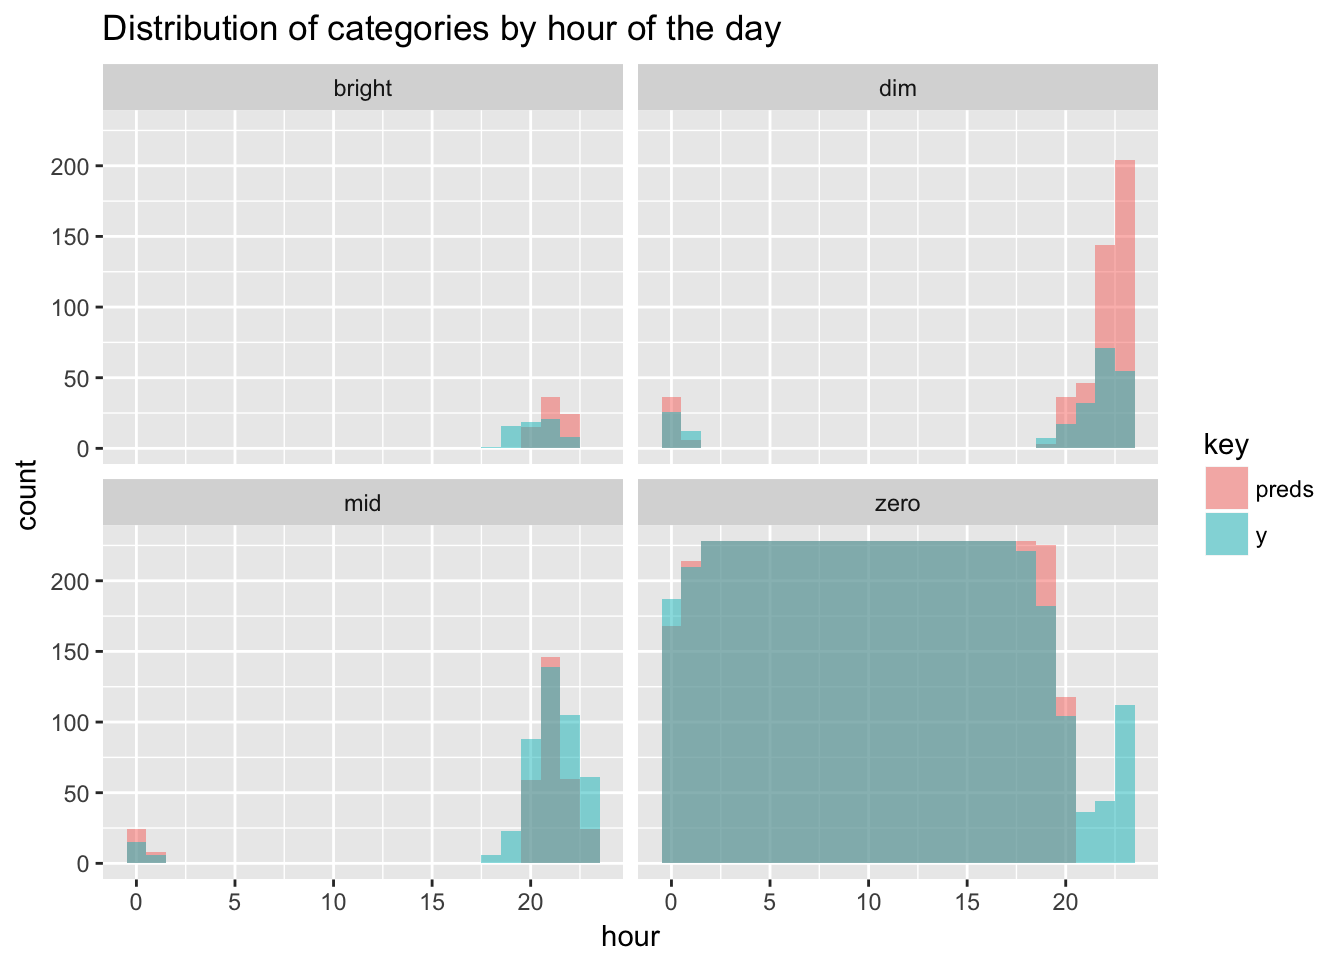
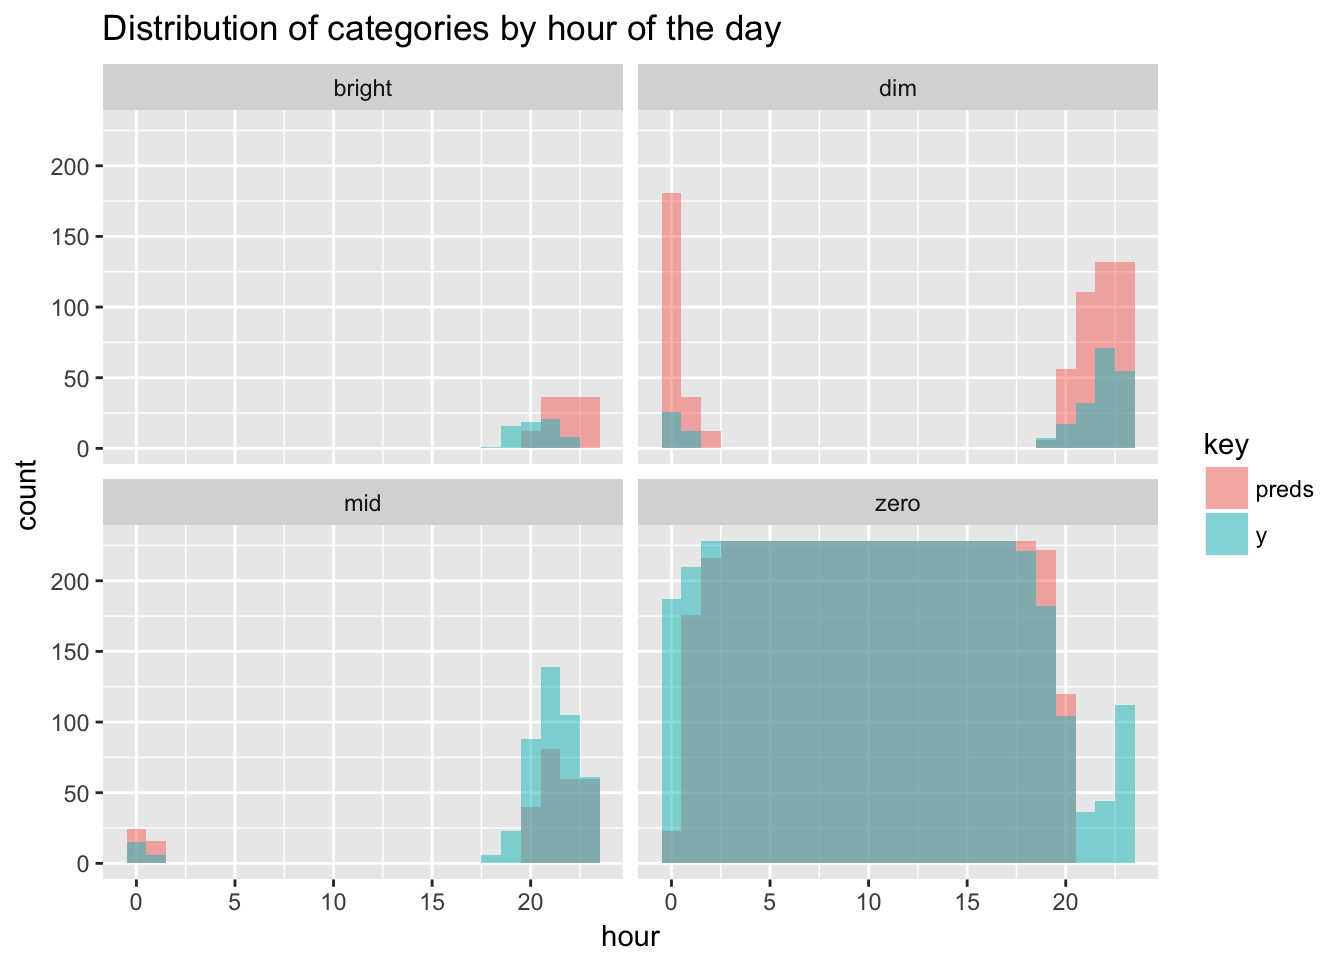
typo fix 2

diff --git a/blog/self-learning-hue-lights/index.html b/blog/self-learning-hue-lights/index.html
@@ -44,10 +44,10 @@
 
 
     
-    <link rel="stylesheet" href="../../css/reset.css?t=1533586802">
-    <link rel="stylesheet" href="../../css/main.css?t=1533586802">
+    <link rel="stylesheet" href="../../css/reset.css?t=1533588859">
+    <link rel="stylesheet" href="../../css/main.css?t=1533588859">
     
-        <link rel="stylesheet" href="../../css/override.css?t=1533586802">
+        <link rel="stylesheet" href="../../css/override.css?t=1533588859">
     
 
 
@@ -277,10 +277,10 @@ gbmFit &lt;- train(y ~ ., data = training,
 table(preds, testing$y)</code></pre>
 <pre><code>##         
 ## preds     dim  mid bright zero
-##   dim      83  171     18  203
-##   mid      64  135     21  101
-##   bright   19   49      0    7
-##   zero     54   88     26 4433</code></pre>
+##   dim      90  198     34  344
+##   mid      58  106      6  111
+##   bright   37   55      0   28
+##   zero     35   84     25 4261</code></pre>
 <p>Most mistakes are made trying to classify bright and mid. The model gets 0 bright values right and only manages to do so correctly 14% of the time for mid. But when do errors happen? To dig a little deeper let’s look at the previous histogram of categories by hour again for the test set, but now with the predictions overlaid on top.</p>
 <p><img src="../../blog/2017/2017-05-14-hue_files/figure-html/unnamed-chunk-11-1.png" width="672" /></p>
 <p>Bright values were always going be hard to guess, but the model at least comes close in terms of hours, but off on the exact days. The majority of misclassification comes from overzealously predicting dim in the evening and around midnight, when it should really be either mid or zero. That looks like a workable scenario for me.</p>

diff --git a/blog/parallelizing-r-code-on-kubernetes/index.html b/blog/parallelizing-r-code-on-kubernetes/index.html
@@ -44,10 +44,10 @@
 
 
     
-    <link rel="stylesheet" href="../../css/reset.css?t=1533586802">
-    <link rel="stylesheet" href="../../css/main.css?t=1533586802">
+    <link rel="stylesheet" href="../../css/reset.css?t=1533588859">
+    <link rel="stylesheet" href="../../css/main.css?t=1533588859">
     
-        <link rel="stylesheet" href="../../css/override.css?t=1533586802">
+        <link rel="stylesheet" href="../../css/override.css?t=1533588859">
     
 
 
@@ -170,7 +170,7 @@ pre code, pre, code {
 <div id="single-job-with-static-parameters" class="section level1">
 <h1>Single job with static parameters</h1>
 <p>The simplest use case of parallelization is running the same script over and over again, but in parallel instead of in a sequential order. A classic example is simulation, i.e. the random generation of numbers given a fixed set of parameters.</p>
-<p>I am taking an example from <a href="https://docs.microsoft.com/en-us/azure/batch/tutorial-r-doazureparallel#run-a-parallel-simulation">Azure’s tutorial on running R code in parallel</a>, simulating stock prices after a a year (365 days) given a fixed value for standard deviation and average stock price movement per day.</p>
+<p>I am taking an example from <a href="https://docs.microsoft.com/en-us/azure/batch/tutorial-r-doazureparallel#run-a-parallel-simulation">Azure’s tutorial on running R code in parallel</a>, simulating stock prices after a year (365 days) given a fixed value for standard deviation and average stock price movement per day.</p>
 <pre class="r"><code>mean_change = 1.001 
 volatility = 0.01 
 opening_price = 100 

diff --git a/blog/a-tidy-text-analysis-of-rick-and-morty/index.html b/blog/a-tidy-text-analysis-of-rick-and-morty/index.html
@@ -44,10 +44,10 @@
 
 
     
-    <link rel="stylesheet" href="../../css/reset.css?t=1533586802">
-    <link rel="stylesheet" href="../../css/main.css?t=1533586802">
+    <link rel="stylesheet" href="../../css/reset.css?t=1533588859">
+    <link rel="stylesheet" href="../../css/main.css?t=1533588859">
     
-        <link rel="stylesheet" href="../../css/override.css?t=1533586802">
+        <link rel="stylesheet" href="../../css/override.css?t=1533588859">
     
 
 
@@ -231,9 +231,9 @@ bigram_graph &lt;- df %&gt;%
 <pre><code>## Warning in graph_from_data_frame(.): In `d&#39; `NA&#39; elements were replaced
 ## with string &quot;NA&quot;</code></pre>
 <pre class="r"><code>print(bigram_graph)</code></pre>
-<pre><code>## IGRAPH 000ce0a DN-- 311 283 -- 
+<pre><code>## IGRAPH 9ac33f3 DN-- 311 283 -- 
 ## + attr: name (v/c), season (e/c), n (e/n)
-## + edges from 000ce0a (vertex names):
+## + edges from 9ac33f3 (vertex names):
 ## [1] NA      -&gt;NA      NA      -&gt;NA      NA      -&gt;NA      tiny    -&gt;rick   
 ## [5] yeah    -&gt;yeah   
 ##  [ reached getOption(&quot;max.print&quot;) -- omitted 21 entries ]

diff --git a/blog/an-animated-neural-net-implementation/index.html b/blog/an-animated-neural-net-implementation/index.html
@@ -44,10 +44,10 @@
 
 
     
-    <link rel="stylesheet" href="../../css/reset.css?t=1533586802">
-    <link rel="stylesheet" href="../../css/main.css?t=1533586802">
+    <link rel="stylesheet" href="../../css/reset.css?t=1533588859">
+    <link rel="stylesheet" href="../../css/main.css?t=1533588859">
     
-        <link rel="stylesheet" href="../../css/override.css?t=1533586802">
+        <link rel="stylesheet" href="../../css/override.css?t=1533588859">
     
 
 

diff --git a/blog/analyzing-my-spotify-listening-history/index.html b/blog/analyzing-my-spotify-listening-history/index.html
@@ -44,10 +44,10 @@
 
 
     
-    <link rel="stylesheet" href="../../css/reset.css?t=1533586802">
-    <link rel="stylesheet" href="../../css/main.css?t=1533586802">
+    <link rel="stylesheet" href="../../css/reset.css?t=1533588859">
+    <link rel="stylesheet" href="../../css/main.css?t=1533588859">
     
-        <link rel="stylesheet" href="../../css/override.css?t=1533586802">
+        <link rel="stylesheet" href="../../css/override.css?t=1533588859">
     
 
 

diff --git a/blog/creating-a-spotify-playlist-using-luigi/index.html b/blog/creating-a-spotify-playlist-using-luigi/index.html
@@ -44,10 +44,10 @@
 
 
     
-    <link rel="stylesheet" href="../../css/reset.css?t=1533586802">
-    <link rel="stylesheet" href="../../css/main.css?t=1533586802">
+    <link rel="stylesheet" href="../../css/reset.css?t=1533588859">
+    <link rel="stylesheet" href="../../css/main.css?t=1533588859">
     
-        <link rel="stylesheet" href="../../css/override.css?t=1533586802">
+        <link rel="stylesheet" href="../../css/override.css?t=1533588859">
     
 
 

diff --git a/blog/dockerized-shiny-app-development/index.html b/blog/dockerized-shiny-app-development/index.html
@@ -44,10 +44,10 @@
 
 
     
-    <link rel="stylesheet" href="../../css/reset.css?t=1533586802">
-    <link rel="stylesheet" href="../../css/main.css?t=1533586802">
+    <link rel="stylesheet" href="../../css/reset.css?t=1533588859">
+    <link rel="stylesheet" href="../../css/main.css?t=1533588859">
     
-        <link rel="stylesheet" href="../../css/override.css?t=1533586802">
+        <link rel="stylesheet" href="../../css/override.css?t=1533588859">
     
 
 

diff --git a/blog/interpretable-gdpr-classifiers/index.html b/blog/interpretable-gdpr-classifiers/index.html
@@ -44,10 +44,10 @@
 
 
     
-    <link rel="stylesheet" href="../../css/reset.css?t=1533586802">
-    <link rel="stylesheet" href="../../css/main.css?t=1533586802">
+    <link rel="stylesheet" href="../../css/reset.css?t=1533588859">
+    <link rel="stylesheet" href="../../css/main.css?t=1533588859">
     
-        <link rel="stylesheet" href="../../css/override.css?t=1533586802">
+        <link rel="stylesheet" href="../../css/override.css?t=1533588859">
     
 
 

diff --git a/blog/starting-a-blogdown/index.html b/blog/starting-a-blogdown/index.html
@@ -44,10 +44,10 @@
 
 
     
-    <link rel="stylesheet" href="../../css/reset.css?t=1533586802">
-    <link rel="stylesheet" href="../../css/main.css?t=1533586802">
+    <link rel="stylesheet" href="../../css/reset.css?t=1533588859">
+    <link rel="stylesheet" href="../../css/main.css?t=1533588859">
     
-        <link rel="stylesheet" href="../../css/override.css?t=1533586802">
+        <link rel="stylesheet" href="../../css/override.css?t=1533588859">
     
 
 

diff --git a/categories/r/index.html b/categories/r/index.html
@@ -44,10 +44,10 @@
 
 
     
-    <link rel="stylesheet" href="../../css/reset.css?t=1533586802">
-    <link rel="stylesheet" href="../../css/main.css?t=1533586802">
+    <link rel="stylesheet" href="../../css/reset.css?t=1533588859">
+    <link rel="stylesheet" href="../../css/main.css?t=1533588859">
     
-        <link rel="stylesheet" href="../../css/override.css?t=1533586802">
+        <link rel="stylesheet" href="../../css/override.css?t=1533588859">
     
 
 

diff --git a/tags/ai/index.html b/tags/ai/index.html
@@ -44,10 +44,10 @@
 
 
     
-    <link rel="stylesheet" href="../../css/reset.css?t=1533586802">
-    <link rel="stylesheet" href="../../css/main.css?t=1533586802">
+    <link rel="stylesheet" href="../../css/reset.css?t=1533588859">
+    <link rel="stylesheet" href="../../css/main.css?t=1533588859">
     
-        <link rel="stylesheet" href="../../css/override.css?t=1533586802">
+        <link rel="stylesheet" href="../../css/override.css?t=1533588859">
     
 
 

diff --git a/tags/async/index.html b/tags/async/index.html
@@ -44,10 +44,10 @@
 
 
     
-    <link rel="stylesheet" href="../../css/reset.css?t=1533586802">
-    <link rel="stylesheet" href="../../css/main.css?t=1533586802">
+    <link rel="stylesheet" href="../../css/reset.css?t=1533588859">
+    <link rel="stylesheet" href="../../css/main.css?t=1533588859">
     
-        <link rel="stylesheet" href="../../css/override.css?t=1533586802">
+        <link rel="stylesheet" href="../../css/override.css?t=1533588859">
     
 
 
